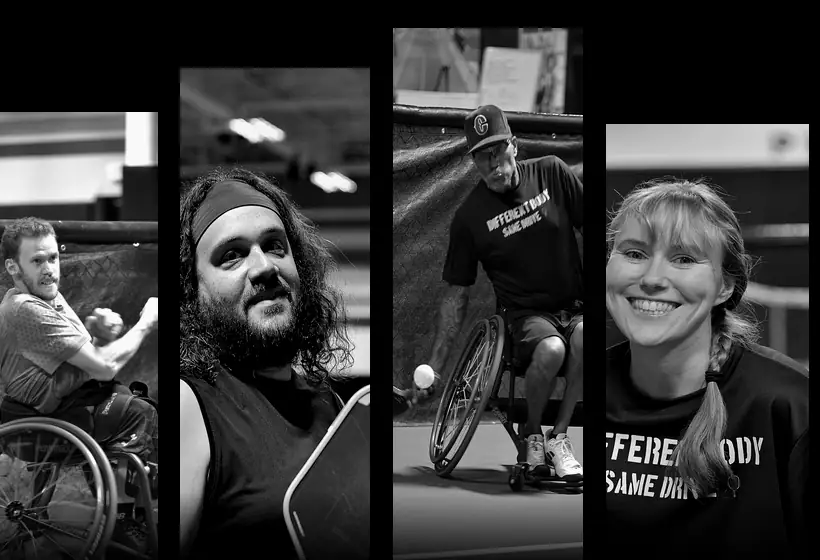
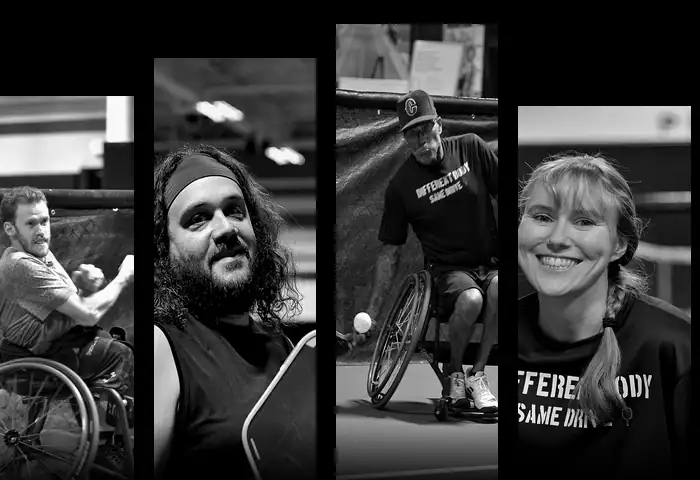
Halve the band asset, then raise /donate 131 -> 146
The band tripled in weight the moment it became visible, and check-site
caught /donate at 172KB against a 131 cap.

Cut first: 1600px at q66 was 58KB. A background at `cover` behind a
60-96% veil, with its back row already blurred, does not need that. 1100
at q56 is 28KB and the difference does not survive the veil, the blur or
a 2x screen. Half the weight, no visible change, contrast probe still
green on every line.

Then the cap, with the arithmetic. This is the SECOND raise to this page
today so the bar is higher, not lower: what is being paid for is not
decoration, it is the athletes at readable brightness on every interior
page — the thing Alec asked for by name. Measured own 142KB, capped at
146 with the same ~2% CF-script allowance the rest of the table carries.
The 49KB rolling strip stays outside this number, deferred behind an
IntersectionObserver.

Running total on this page for the day is 125 -> 146, and the comment
says so, along with which lever brings it back down if it needs to.

472/472.

diff --git a/scripts/build-hero-panels.py b/scripts/build-hero-panels.py
@@ -186,7 +186,11 @@ def compose_band():
         ("JLA_5973.jpg", 0.15, 0.66, True),  ("JLA_5922.jpg", 0.15, 0.95, False),
         ("JLA_6073.jpg", 0.15, 0.60, True),  ("JLA_6106.jpg", 0.16, 0.78, False),
     ]
-    for name, W, H, step in (("pg-band-wide", 1600, 620, 0.13), ("pg-band-tall", 820, 560, 0.26)):
+    # Sized for what a background at `cover` behind a veil actually needs, not for
+    # the viewport. 1600 wide cost 58 KB and broke /donate's budget the moment
+    # the band became visible; 1100 at q56 is 28 KB and the difference does not
+    # survive the veil, the blur on the back row, or a 2x screen.
+    for name, W, H, step in (("pg-band-wide", 1100, 430, 0.13), ("pg-band-tall", 700, 480, 0.26)):
         canvas = Image.new("RGB", (W, H), (0, 0, 0))
         use = COLS if step < 0.2 else COLS[1::2]
         for i, (src, w, h, dim) in enumerate(use):
@@ -207,7 +211,7 @@ def compose_band():
         a *= np.clip(1.0 - np.maximum(0, (y - 0.88) / 0.12) * 0.85, 0, 1)
         canvas = Image.fromarray((a * 255).astype(np.uint8))
         out = os.path.join(DST, f"{name}.webp")
-        canvas.save(out, "WEBP", quality=66, method=6)
+        canvas.save(out, "WEBP", quality=56, method=6)
         print(f"{name:20s} {W}x{H} {os.path.getsize(out)/1024:6.1f} KB")
 
 
